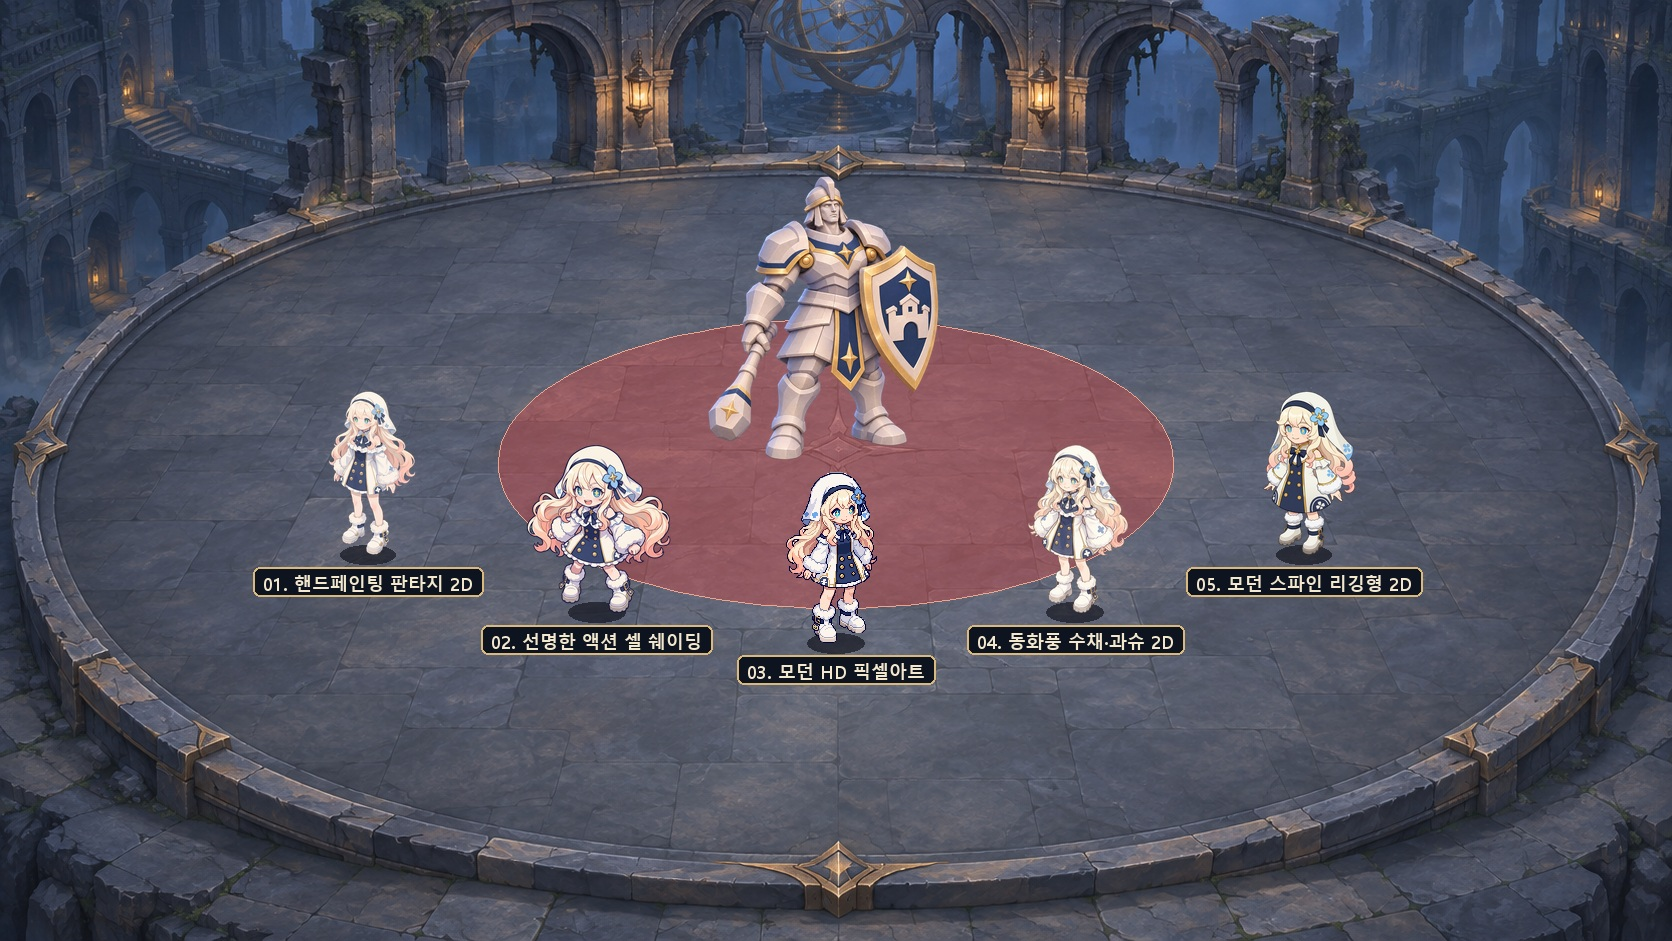
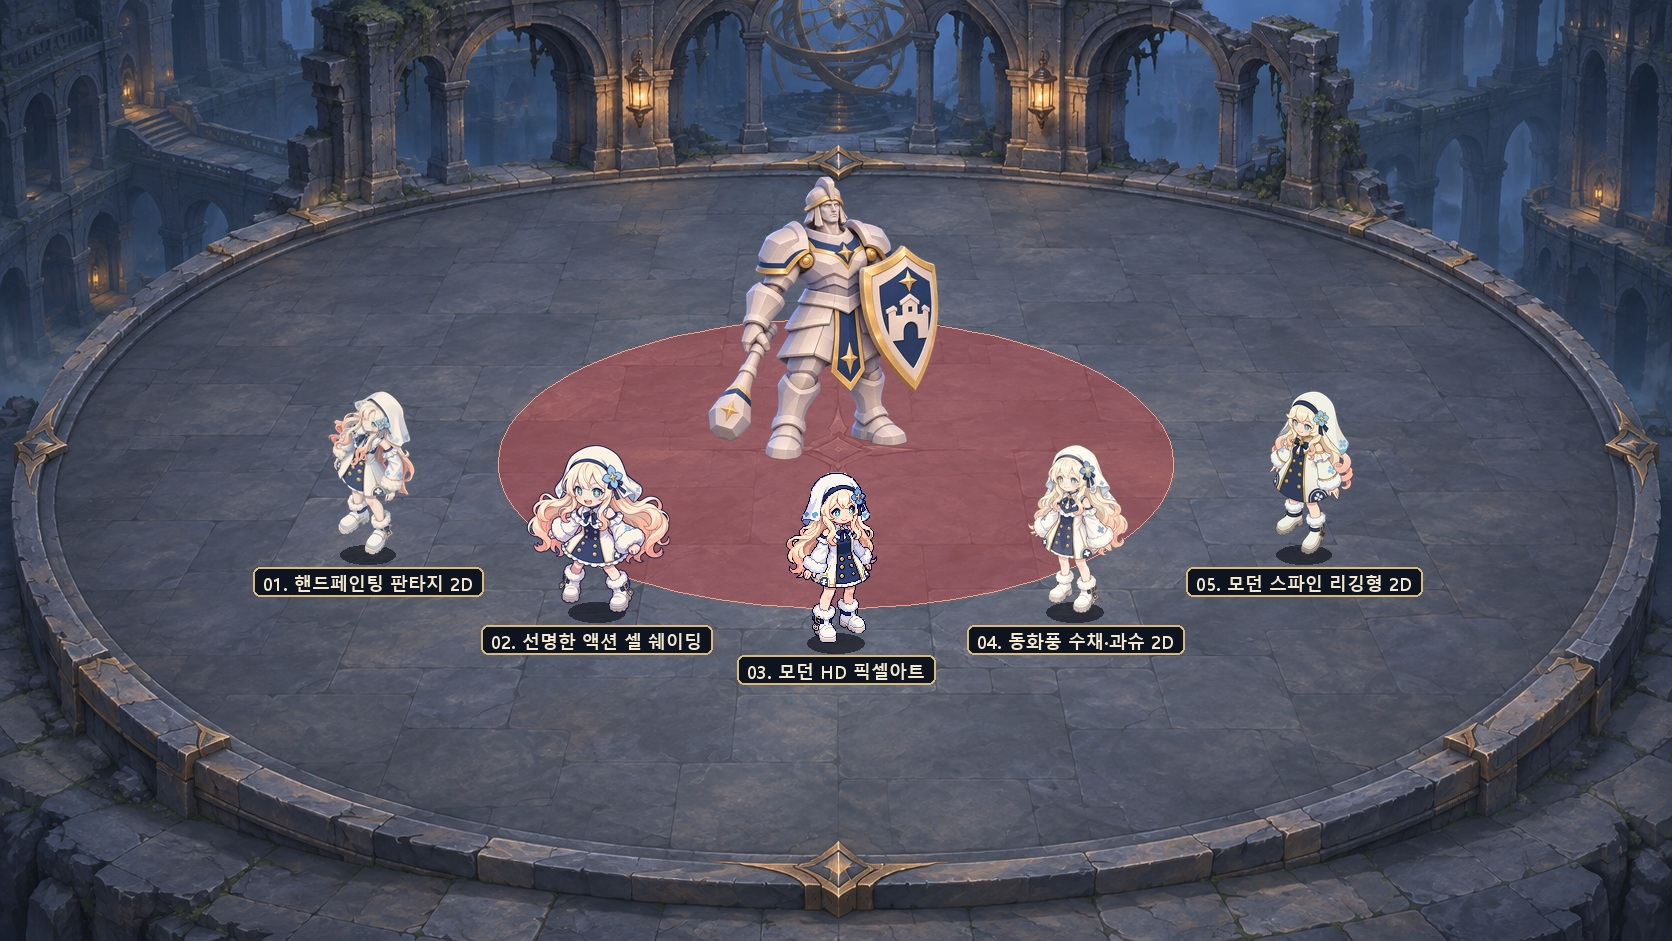
Update Iris styles 01 and 05 to true 45-degree top-down camera angle

Changed region(s): [[0.7464, 0.4006, 0.8086, 0.5855], [0.1866, 0.4006, 0.2488, 0.5855]]

diff --git a/Character-Production/Eris/2D-Styles/Ingame-Concepts-5Styles/index.html b/Character-Production/Eris/2D-Styles/Ingame-Concepts-5Styles/index.html
@@ -440,10 +440,10 @@
       "id": "01",
       "slug": "01-handpainted-fantasy",
       "title": "핸드페인팅 판타지 2D",
-      "english": "Hand-Painted Stylized Fantasy (Lineless)",
-      "tag": "전장 일체감",
-      "summary": "외곽선 없이 풍부한 붓터치와 황혼빛 푸른 음영·황금 림라이트로 입체감을 살린 핸드페인팅 판타지 스타일.",
-      "fit": "수호석상(StoneGuardian)과 황혼 천문대 전장 배경에 가장 자연스럽게 녹아드는 시그니처 회화풍입니다.",
+      "english": "Hand-Painted Stylized Fantasy (45° Top-Down)",
+      "tag": "45° 탑다운 적용 · 전장 일체감",
+      "summary": "하향 45° 부감 시점으로 재구성한 회화풍 판타지 2D. 후드 윗면·치마 단축 원근·부츠 윗면이 전장 바닥 각도와 자연스럽게 맞물립니다.",
+      "fit": "수호석상(StoneGuardian)과 황혼 천문대 전장 배경에 가장 자연스럽게 녹아드는 45° 탑다운 회화풍입니다.",
       "file": "Sprites/01-handpainted-fantasy.png",
       "width": 512,
       "height": 576,
@@ -456,20 +456,21 @@
         0.111111
       ],
       "inkBoundsPx": [
-        150,
+        149,
         64,
-        237,
+        236,
         448
       ],
-      "transparentFraction": 0.816,
+      "transparentFraction": 0.7908,
       "filterMode": "Bilinear",
       "pixelArt": false,
+      "cameraPitch": "45° top-down (SW)",
       "sourceBackgroundRgb": [
-        90,
-        103,
-        122
+        84,
+        100,
+        125
       ],
[2 lines of base64/hex data omitted]
     },
     {
       "id": "02",
@@ -499,6 +500,7 @@
       "transparentFraction": 0.6785,
       "filterMode": "Bilinear",
       "pixelArt": false,
+      "cameraPitch": "15-20° front-three-quarter (45° 재생성 대기)",
       "sourceBackgroundRgb": [
         254,
         255,
@@ -534,6 +536,7 @@
       "transparentFraction": 0.8422,
       "filterMode": "Point",
       "pixelArt": true,
+      "cameraPitch": "15-20° front-three-quarter (45° 재생성 대기)",
       "sourceBackgroundRgb": [
         255,
         255,
@@ -577,6 +580,7 @@
       "transparentFraction": 0.7799,
       "filterMode": "Bilinear",
       "pixelArt": false,
+      "cameraPitch": "15-20° front-three-quarter (45° 재생성 대기)",
       "sourceBackgroundRgb": [
         255,
         255,
@@ -588,9 +592,9 @@
       "id": "05",
       "slug": "05-spine-modular-flat",
       "title": "모던 스파인 리깅형 2D",
-      "english": "Clean Modular Vector / Spine-Ready 2D",
-      "tag": "2D 본 애니메이션 최적",
-      "summary": "깔끔한 기하학 실루엣과 명확한 파츠 분리, 정돈된 소프트 그라데이션으로 설계한 현대적 플랫 벡터 2D.",
+      "english": "Clean Modular Vector / Spine-Ready 2D (45° Top-Down)",
+      "tag": "45° 탑다운 적용 · 2D 본 최적",
+      "summary": "하향 45° 탑다운 구도로 재구성한 깔끔한 기하학 플랫 벡터 2D. 후드 윗면과 앞뒤 부츠 원근이 뚜렷하고 파츠 분리가 명확합니다.",
       "fit": "Spine / Unity 2D Animation 본 리깅으로 12개 직업과 다양한 스킬 모션을 확장할 때 가장 효율적이고 선명합니다.",
       "file": "Sprites/05-spine-modular-flat.png",
       "width": 512,
@@ -604,20 +608,21 @@
         0.111111
       ],
       "inkBoundsPx": [
-        143,
+        160,
         64,
-        255,
+        230,
         448
       ],
-      "transparentFraction": 0.7618,
+      "transparentFraction": 0.792,
       "filterMode": "Bilinear",
       "pixelArt": false,
+      "cameraPitch": "45° top-down (SW)",
       "sourceBackgroundRgb": [
-        128,
-        128,
-        128
+        85,
+        101,
+        126
       ],
[2 lines of base64/hex data omitted]
     }
   ]
 }</script>

diff --git a/Character-Production/Eris/2D-Styles/Ingame-Concepts-5Styles/README.md b/Character-Production/Eris/2D-Styles/Ingame-Concepts-5Styles/README.md
@@ -4,13 +4,13 @@
 
 ## 5가지 그림체 구성
 
-| 번호 | 파일 | 그림체 | 아스텔라 인게임 적합 포인트 |
-| --- | --- | --- | --- |
-| 01 | `Sprites/01-handpainted-fantasy.png` | **핸드페인팅 판타지 2D** (무외곽선 회화풍) | 수호석상(`StoneGuardian.png`) 및 현무암 전장(`StoneGuardianArena.png`)과 가장 자연스럽게 어우러지는 입체 회화 질감과 황금 림라이트 |
-| 02 | `Sprites/02-crisp-action-cel.png` | **선명한 액션 셀 쉐이딩** (짙은 남색 외곽선) | 빠른 보스 패턴 회피와 붉은 위험 장판 위에서 캐릭터 위치와 실루엣이 즉각 읽히는 최고 수준의 레이드 시인성 |
-| 03 | `Sprites/03-hd-pixel-art.png` (+ `03-hd-pixel-art-256x288.png`) | **모던 HD 픽셀아트** (HD-2D 도트) | 입체적 전장 위에 정사각형 도트와 1px 남색 외곽선으로 선명하게 대비되는 HD-2D 감성 (256×288 1:1 원본 도트 병행 제공) |
-| 04 | `Sprites/04-storybook-gouache.png` | **동화풍 수채·과슈 2D** (섬세한 세피아 선화) | 별빛 천문대 세계관과 이리스 원화의 포근하고 신비로운 분위기를 감성적으로 살린 일러스트형 2D |
-| 05 | `Sprites/05-spine-modular-flat.png` | **모던 스파인 리깅형 2D** (플랫 벡터·파츠 분리) | Spine / Unity 2D Animation 본 애니메이션으로 12개 직업과 스킬 모션을 확장하기 좋은 깔끔한 기하학 2D |
+| 번호 | 파일 | 그림체 | 카메라 각도 | 아스텔라 인게임 적합 포인트 |
+| --- | --- | --- | --- | --- |
+| 01 | `Sprites/01-handpainted-fantasy.png` | **핸드페인팅 판타지 2D** | **45° 탑다운 적용** | Blender 45° 가이드(`guide-45deg-sw`) 기준의 부감 원근과 수호석상·현무암 전장에 어우러지는 회화 질감 |
+| 02 | `Sprites/02-crisp-action-cel.png` | **선명한 액션 셀 쉐이딩** | 1차 15~20° *(45° 재생성 대기)* | 빠른 보스 패턴 회피와 붉은 위험 장판 위에서 캐릭터 위치와 실루엣이 즉각 읽히는 레이드 시인성 |
+| 03 | `Sprites/03-hd-pixel-art.png` (+ `03-hd-pixel-art-256x288.png`) | **모던 HD 픽셀아트** | 1차 15~20° *(45° 재생성 대기)* | 입체적 전장 위에 정사각형 도트와 1px 남색 외곽선으로 선명하게 대비되는 HD-2D 감성 (256×288 1:1 원본 도트 병행 제공) |
+| 04 | `Sprites/04-storybook-gouache.png` | **동화풍 수채·과슈 2D** | 1차 15~20° *(45° 재생성 대기)* | 별빛 천문대 세계관과 이리스 원화의 포근하고 신비로운 분위기를 감성적으로 살린 일러스트형 2D |
+| 05 | `Sprites/05-spine-modular-flat.png` | **모던 스파인 리깅형 2D** | **45° 탑다운 적용** | Blender 45° 가이드 기준의 부감 구도와 Spine / Unity 2D Animation 본 리깅 확장에 최적화된 깔끔한 파츠 분리 |
 
 ## 리소스 규격 및 Unity 임포트 기준
 
